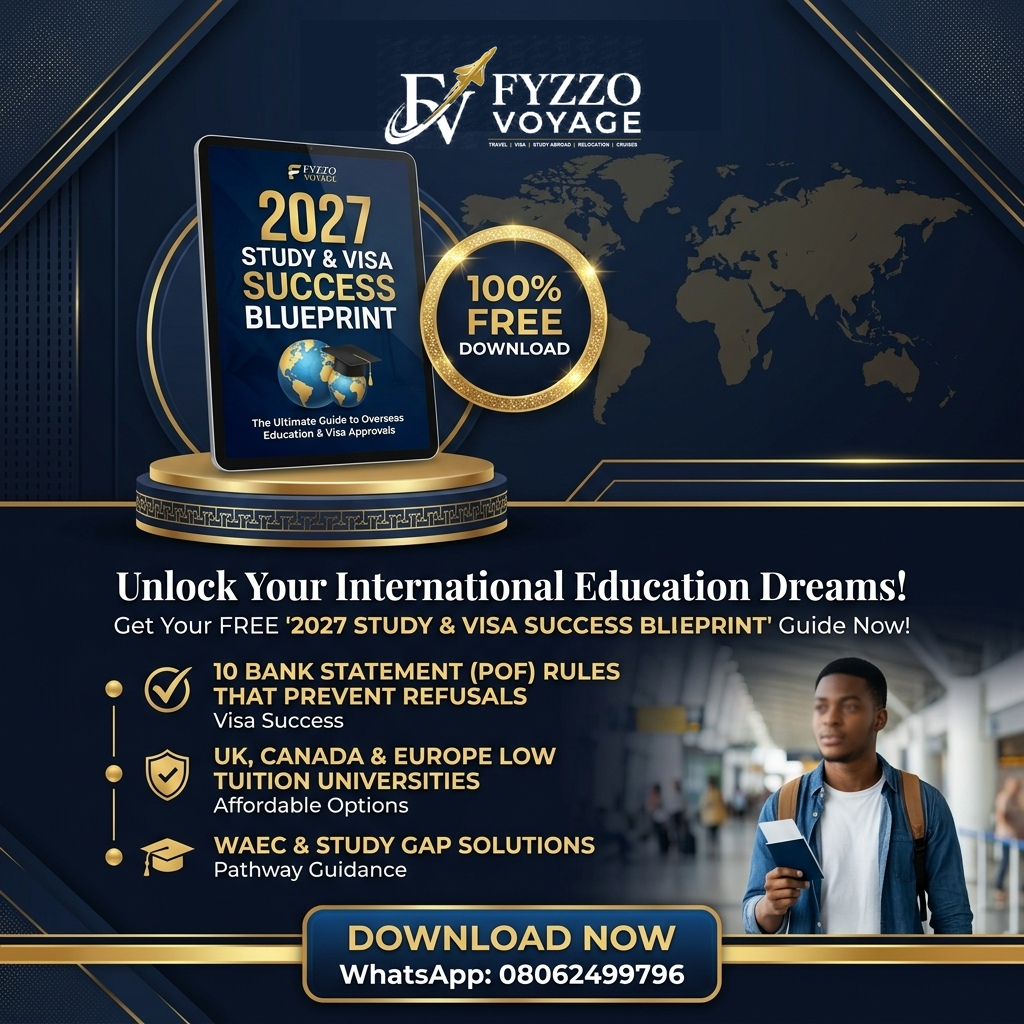
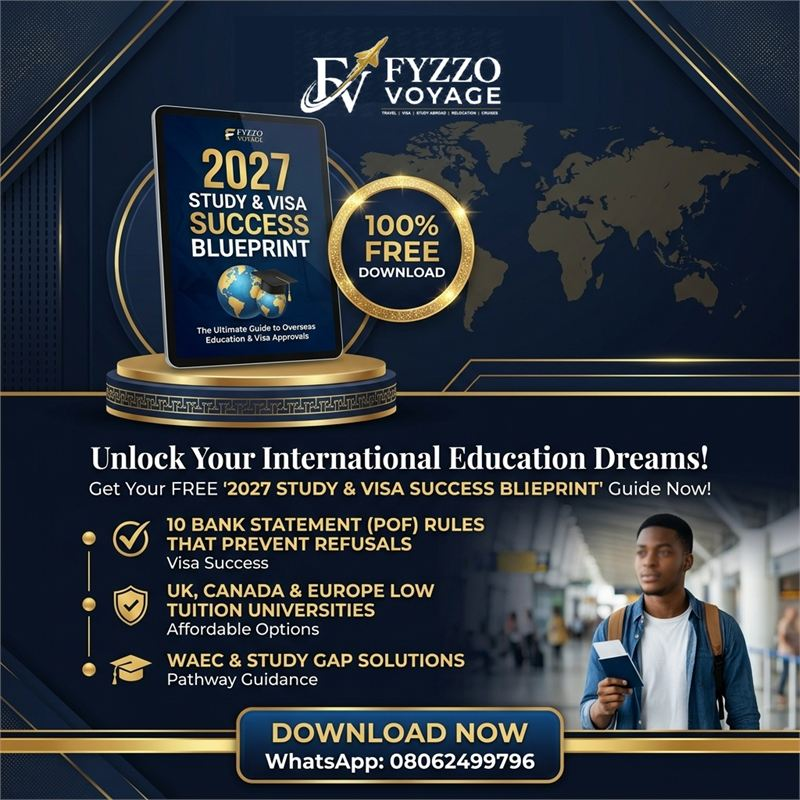
Final audit fixes
- Homepage no longer scrolls sideways on 360px phones (About section)
- Fyvoy understands fee questions and bringing a spouse on a Student visa
- Promo images and logo about 70% lighter for faster loading on mobile data

diff --git a/index.html b/index.html
@@ -20,14 +20,14 @@
     <meta name="twitter:image" content="https://lyndaogbogua-vpal.github.io/fyzzo-voyage/assets/fyzzo_voyage_logo.png">
     
     <link rel="canonical" href="https://lyndaogbogua-vpal.github.io/fyzzo-voyage/">
-    <link rel="icon" type="image/png" href="assets/fyzzo_voyage_logo.png">
+    <link rel="icon" type="image/png" href="assets/fyzzo_voyage_logo_web.png">
 
     <!-- Google Fonts -->
     <link rel="preconnect" href="https://fonts.googleapis.com">
     <link rel="preconnect" href="https://fonts.gstatic.com" crossorigin>
     <link href="https://fonts.googleapis.com/css2?family=Plus+Jakarta+Sans:wght@300;400;500;600;700;800&family=Playfair+Display:ital,wght@0,600;0,700;1,600&display=swap" rel="stylesheet">
     
-    <link rel="stylesheet" href="style.css?v=20261106d">
+    <link rel="stylesheet" href="style.css?v=20261106f">
 </head>
 <body>
 
@@ -58,7 +58,7 @@
     <header class="site-header" id="header">
         <div class="nav-container">
             <a href="#" class="brand-link" aria-label="Fyzzo Voyage Home">
-                <img src="assets/fyzzo_voyage_logo.png" alt="Fyzzo Voyage Logo" class="brand-logo" width="180" height="48" style="height: 48px; width: auto; max-width: 190px; object-fit: contain; display: block;">
+                <img src="assets/fyzzo_voyage_logo_web.png" alt="Fyzzo Voyage Logo" class="brand-logo" width="180" height="48" style="height: 48px; width: auto; max-width: 190px; object-fit: contain; display: block;">
             </a>
 
             <nav class="main-nav" id="mainNav">
@@ -91,7 +91,7 @@
     <!-- Mobile Drawer Navigation -->
     <div class="mobile-drawer" id="mobileDrawer">
         <div class="mobile-drawer-header">
-            <img src="assets/fyzzo_voyage_logo.png" alt="Fyzzo Voyage" class="drawer-logo">
+            <img src="assets/fyzzo_voyage_logo_web.png" alt="Fyzzo Voyage" class="drawer-logo">
             <button class="drawer-close" id="drawerClose" aria-label="Close Menu">&times;</button>
         </div>
         <div class="mobile-drawer-links">
@@ -1684,7 +1684,7 @@
             <div class="footer-grid">
                 <!-- Col 1: Brand & Positioning -->
                 <div class="footer-col brand-col">
-                    <img src="assets/fyzzo_voyage_logo.png" alt="Fyzzo Voyage" class="footer-logo" width="180" height="48" style="height: 48px; width: auto; max-width: 190px; object-fit: contain; margin-bottom: 16px;">
+                    <img src="assets/fyzzo_voyage_logo_web.png" alt="Fyzzo Voyage" class="footer-logo" width="180" height="48" style="height: 48px; width: auto; max-width: 190px; object-fit: contain; margin-bottom: 16px;">
                     <p class="footer-tagline"><strong>Study. Travel. Relocate. With Confidence.</strong></p>
                     <p class="footer-desc">Supporting Nigerians navigating international education, visas, travel and relocation with clarity, structured documentation and personalised support.</p>
                     <p class="corporate-sub">Fyzzo Voyage is a unit of <strong>Fyzzo Global</strong>.</p>
@@ -1945,7 +1945,7 @@
     <!-- Success Toast Notification -->
     <div id="toastNotification" class="toast-notification" style="display: none;"></div>
 
-    <script src="fyvoy-kb.js?v=20261106"></script>
+    <script src="fyvoy-kb.js?v=20261106f"></script>
     <script src="fyvoy-trips.js?v=20261106"></script>
     <script src="fyvoy-pof.js?v=20261106c"></script>
     <script src="app.js?v=20261106d"></script>

diff --git a/fyvoy-kb.js b/fyvoy-kb.js
@@ -146,7 +146,7 @@ const FYVOY_KB = [
     {
         id: 'dependants',
         title: 'Can I bring my spouse and children on a Student visa?',
-        keywords: ['dependant', 'dependent', 'dependants', 'spouse', 'husband', 'wife', 'children', 'kids', 'bring my family', 'family with me', 'bring family'],
+        keywords: ['dependant', 'dependent', 'dependants', 'spouse', 'husband', 'wife', 'children', 'kids', 'bring my family', 'family with me', 'bring family', 'bring my wife', 'bring my husband', 'bring my spouse', 'bring my children', 'bring my kids', 'bring my partner', 'come with my wife', 'come with my husband', 'wife on student visa', 'husband on student visa', 'family on student visa', 'can my wife come', 'can my husband come'],
         answer: 'Usually **no**. Since January 2024, most international students cannot bring dependants. You can only bring your partner or children if you are:\n• A **government-sponsored** student on a course longer than 6 months, **or**\n• Studying a **PhD/doctorate or research-based higher degree** (RQF level 8 / research master\'s)\n\nTaught master\'s students (e.g. MSc, MBA) cannot bring dependants. Families planning to move together often look at **work routes** instead; an advisor can map your options.',
         services: ['study', 'arrival'],
         next: ['work-visa', 'student-work']
@@ -457,7 +457,7 @@ const FYVOY_KB = [
     {
         id: 'prices',
         title: 'How much are Fyzzo Voyage\'s services?',
-        keywords: ['price', 'prices', 'cost of your service', 'your fee', 'fees', 'how much do you charge', 'charges', 'package', 'packages', 'rate', 'payment plan'],
+        keywords: ['price', 'prices', 'cost of your service', 'cost of your services', 'your services cost', 'how much are your services', 'how much are your', 'how much is your service', 'how much do you collect', 'your fee', 'your fees', 'service fee', 'service charge', 'consultation fee', 'fees', 'how much do you charge', 'charges', 'package', 'packages', 'rate', 'your rates', 'payment plan', 'family price', 'price for my family', 'family package'],
         answer: 'Our professional fees (government visa fees, IHS, tuition and flights are paid separately to the providers):\n• **Study Abroad Guidance Suite:** ₦500,000, the full journey from university choice to student visa\n• **Visit & Family Visa Support:** ₦380,000 for a single traveller. Families are quoted on request, because family size and documents vary\n• **Visa Refusal Review & Roadmap:** ₦380,000\n• **Employment & Study Gap Documentation:** ₦200,000\n• **Proof of Funds Readiness Review:** ₦100,000\n• **SOP / Personal Statement Guidance:** ₦100,000\n• **1-on-1 Visa Interview Coaching:** ₦100,000\n• **Cover Letter / Travel Explanation:** ₦60,000\n• **Comprehensive Document Audit:** ₦55,000\n• **Flight & Accommodation Search:** ₦15,000\n• **Relocation & arrival support:** tailored to your move\n\nYour first chat with us is free. [See every service in detail](services/).',
         services: [],
         next: ['about-fyzzo', 'student-visa', 'visit-visa']

diff --git a/style.css b/style.css
@@ -3421,3 +3421,11 @@ a.service-pill-card p { flex: 1; }
     .form-grid-2 { grid-template-columns: minmax(0, 1fr) !important; }
     .form-group, .form-group input, .form-group select, .form-group textarea { min-width: 0; max-width: 100%; }
 }
+
+/* ===== Final audit: no grid may push the page wider than a small phone ===== */
+@media (max-width: 600px) {
+    .about-grid { grid-template-columns: minmax(0, 1fr) !important; }
+    .about-values-row { grid-template-columns: repeat(3, minmax(0, 1fr)) !important; }
+    [class*="grid"] > * { min-width: 0; }
+    h1, h2, h3, p, li { overflow-wrap: break-word; }
+}

diff --git a/services/index.html b/services/index.html
@@ -25,7 +25,7 @@ permalink: /services/
 <body>
     <header class="blog-header">
         <div class="blog-header-inner">
-            <a href="../" aria-label="Fyzzo Voyage home"><img src="../assets/fyzzo_voyage_logo.png" alt="Fyzzo Voyage" class="brand-logo"></a>
+            <a href="../" aria-label="Fyzzo Voyage home"><img src="../assets/fyzzo_voyage_logo_web.png" alt="Fyzzo Voyage" class="brand-logo"></a>
             <nav class="blog-nav">
                 <a href="../">Home</a>
                 <a href="./" class="active">Services</a>

diff --git a/_layouts/service.html b/_layouts/service.html
@@ -37,7 +37,7 @@
 <body>
     <header class="blog-header">
         <div class="blog-header-inner">
-            <a href="../" aria-label="Fyzzo Voyage home"><img src="../assets/fyzzo_voyage_logo.png" alt="Fyzzo Voyage" class="brand-logo"></a>
+            <a href="../" aria-label="Fyzzo Voyage home"><img src="../assets/fyzzo_voyage_logo_web.png" alt="Fyzzo Voyage" class="brand-logo"></a>
             <nav class="blog-nav">
                 <a href="../">Home</a>
                 <a href="./" class="active">Services</a>

diff --git a/_layouts/article.html b/_layouts/article.html
@@ -42,7 +42,7 @@
 <body>
     <header class="blog-header">
         <div class="blog-header-inner">
-            <a href="../" aria-label="Fyzzo Voyage home"><img src="../assets/fyzzo_voyage_logo.png" alt="Fyzzo Voyage" class="brand-logo"></a>
+            <a href="../" aria-label="Fyzzo Voyage home"><img src="../assets/fyzzo_voyage_logo_web.png" alt="Fyzzo Voyage" class="brand-logo"></a>
             <nav class="blog-nav">
                 <a href="../">Home</a>
                 <a href="../#services">Services</a>

diff --git a/blog/index.html b/blog/index.html
@@ -22,7 +22,7 @@
 <body>
     <header class="blog-header">
         <div class="blog-header-inner">
-            <a href="../" aria-label="Fyzzo Voyage home"><img src="../assets/fyzzo_voyage_logo.png" alt="Fyzzo Voyage" class="brand-logo"></a>
+            <a href="../" aria-label="Fyzzo Voyage home"><img src="../assets/fyzzo_voyage_logo_web.png" alt="Fyzzo Voyage" class="brand-logo"></a>
             <nav class="blog-nav">
                 <a href="../">Home</a>
                 <a href="../#services">Services</a>
